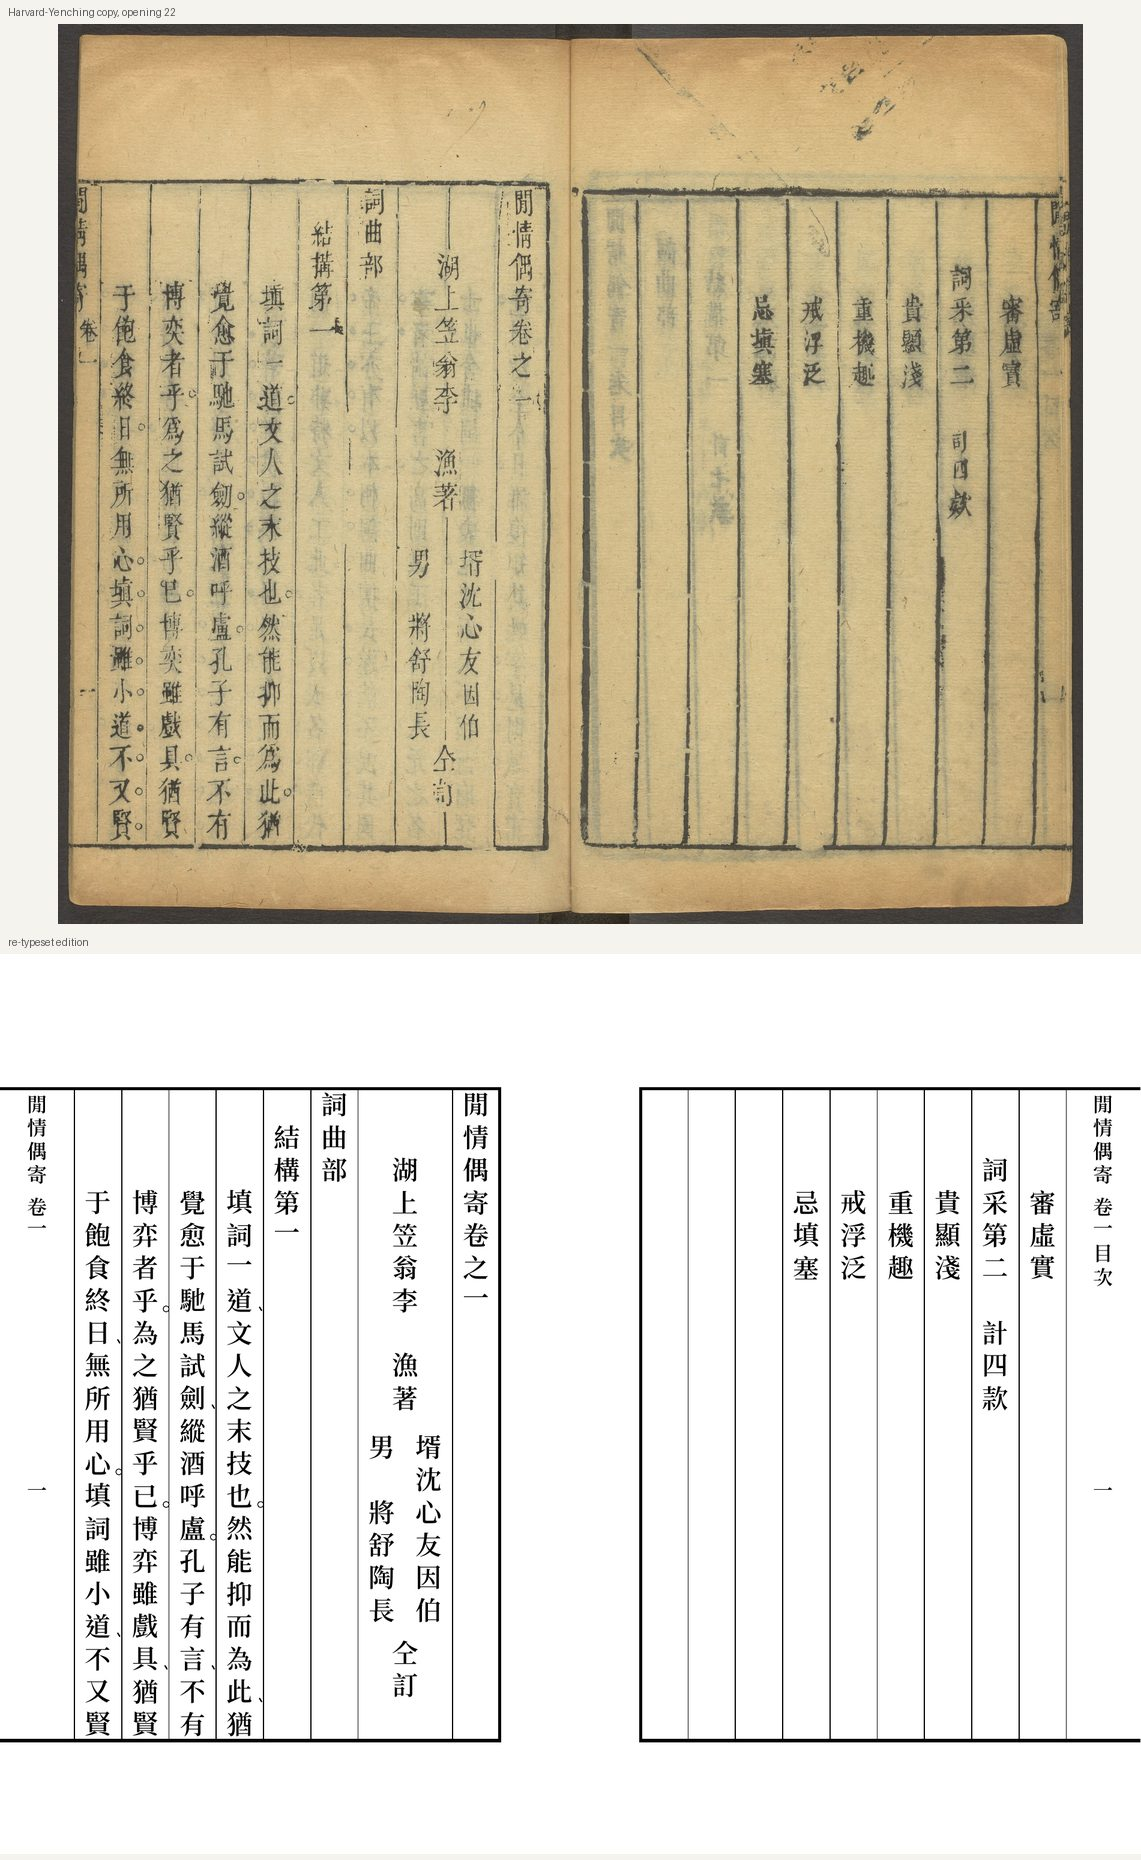
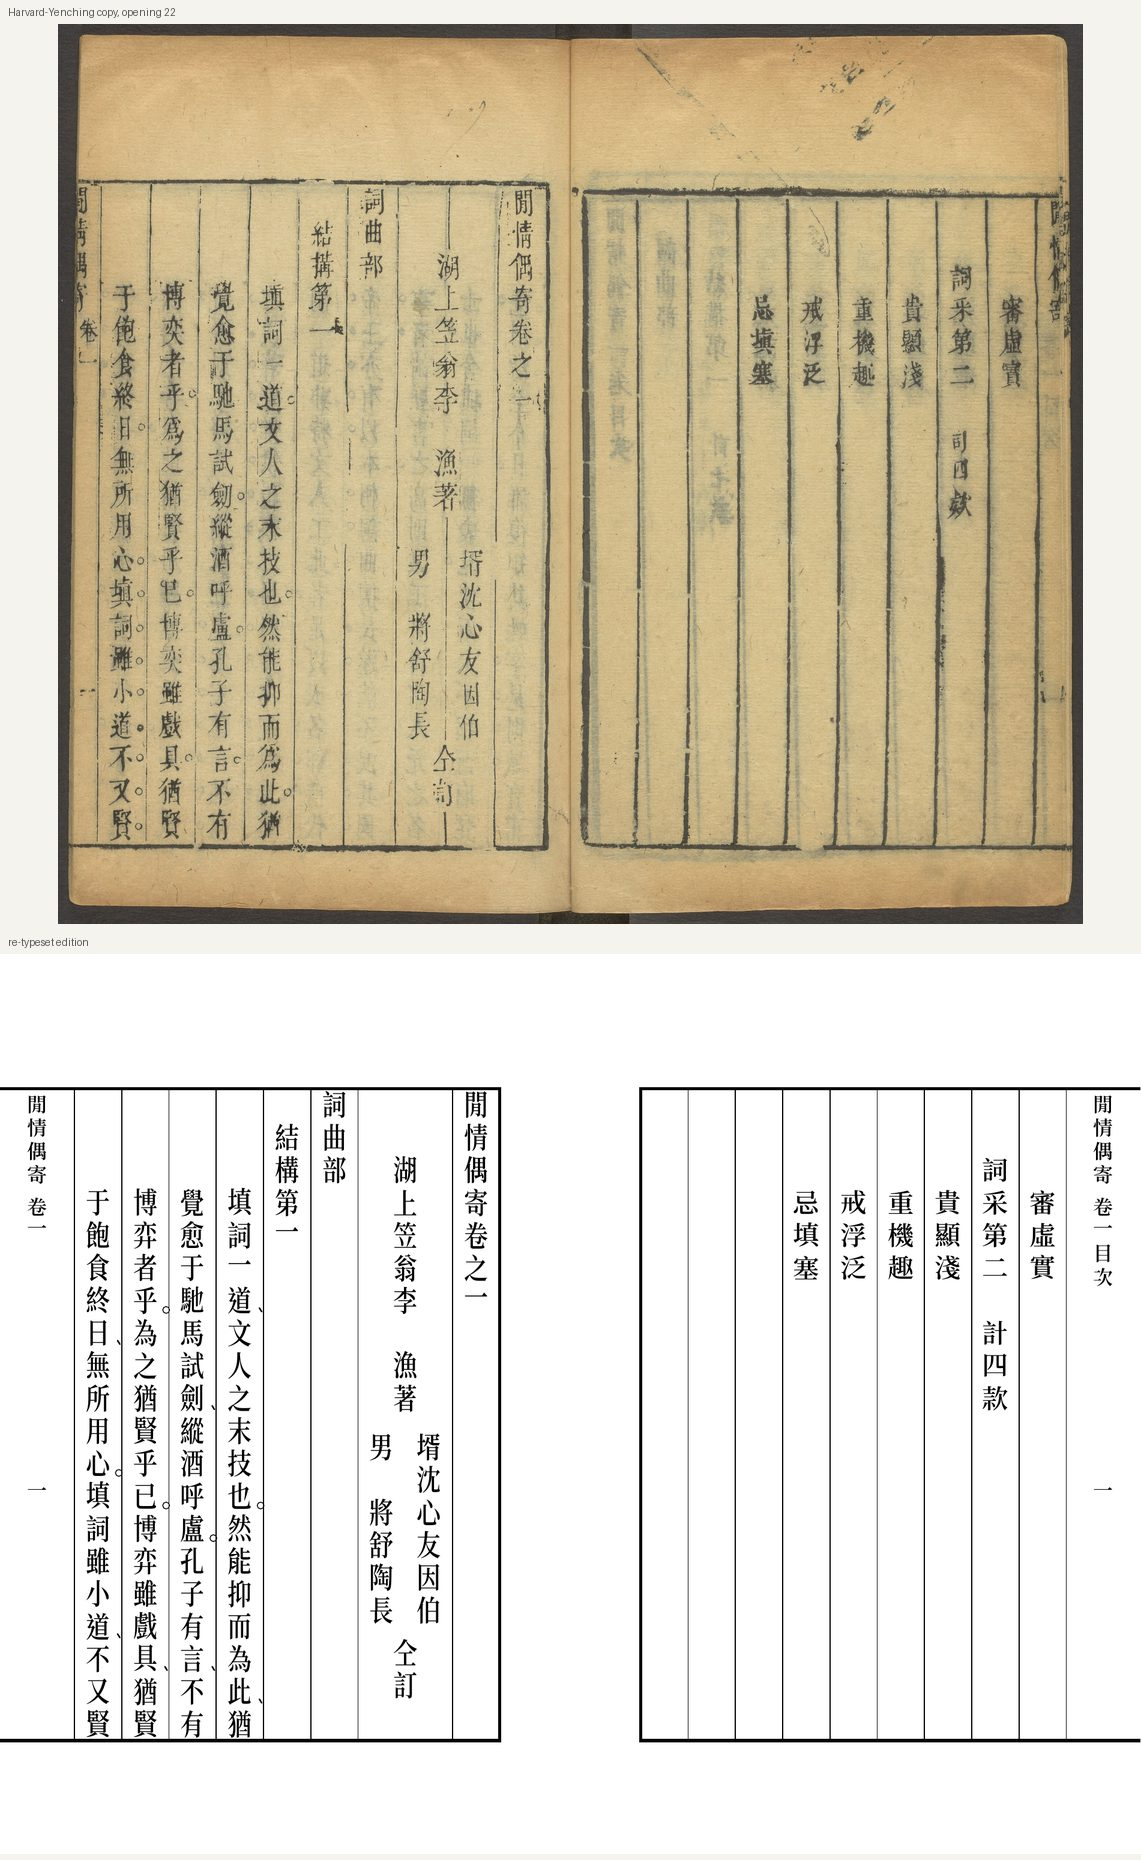
正文改用瘦高字形（Noto Serif TC 橫向 82%、字高 0.90 格），近康熙刻本之宋體

diff --git a/preamble.tex b/preamble.tex
@@ -5,6 +5,9 @@
 \pagestyle{empty}
 
 \newfontfamily\song{NotoSerifTC-SemiBold.otf}[Path=fonts/]
+% body text: the Kangxi 宋體 is tall and narrow -- condense the square Noto glyphs
+% (layout `font: songT`, with a larger `size` so the characters gain height)
+\newfontfamily\songT{NotoSerifTC-SemiBold.otf}[Path=fonts/,FakeStretch=0.82]
 % 全字庫正楷體 is thin beside the written-out preface; embolden it a little
 \newfontfamily\kai{TW-Kai.ttf}[Path=fonts/,FakeBold=1.6]
 
